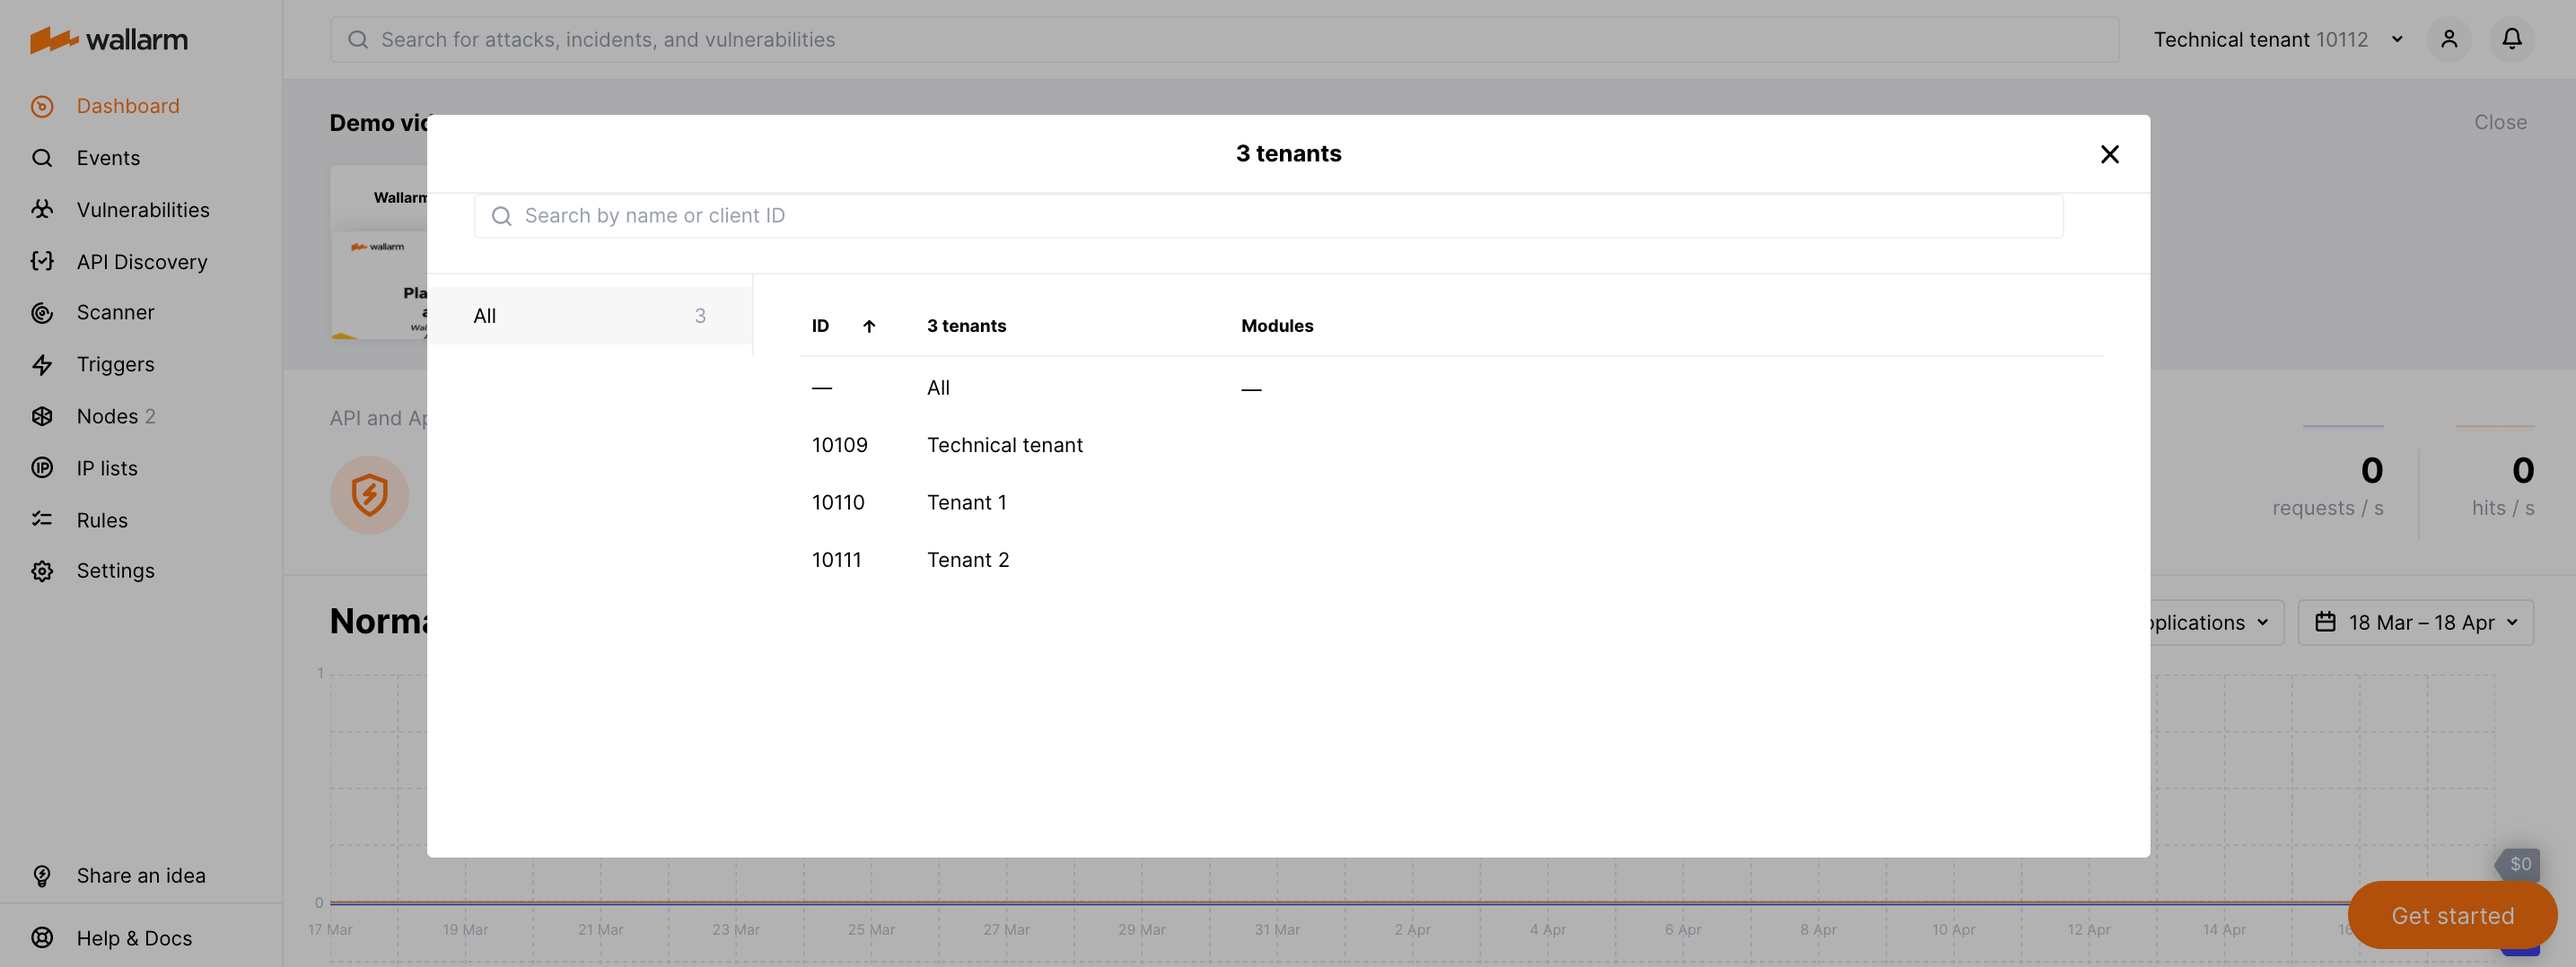
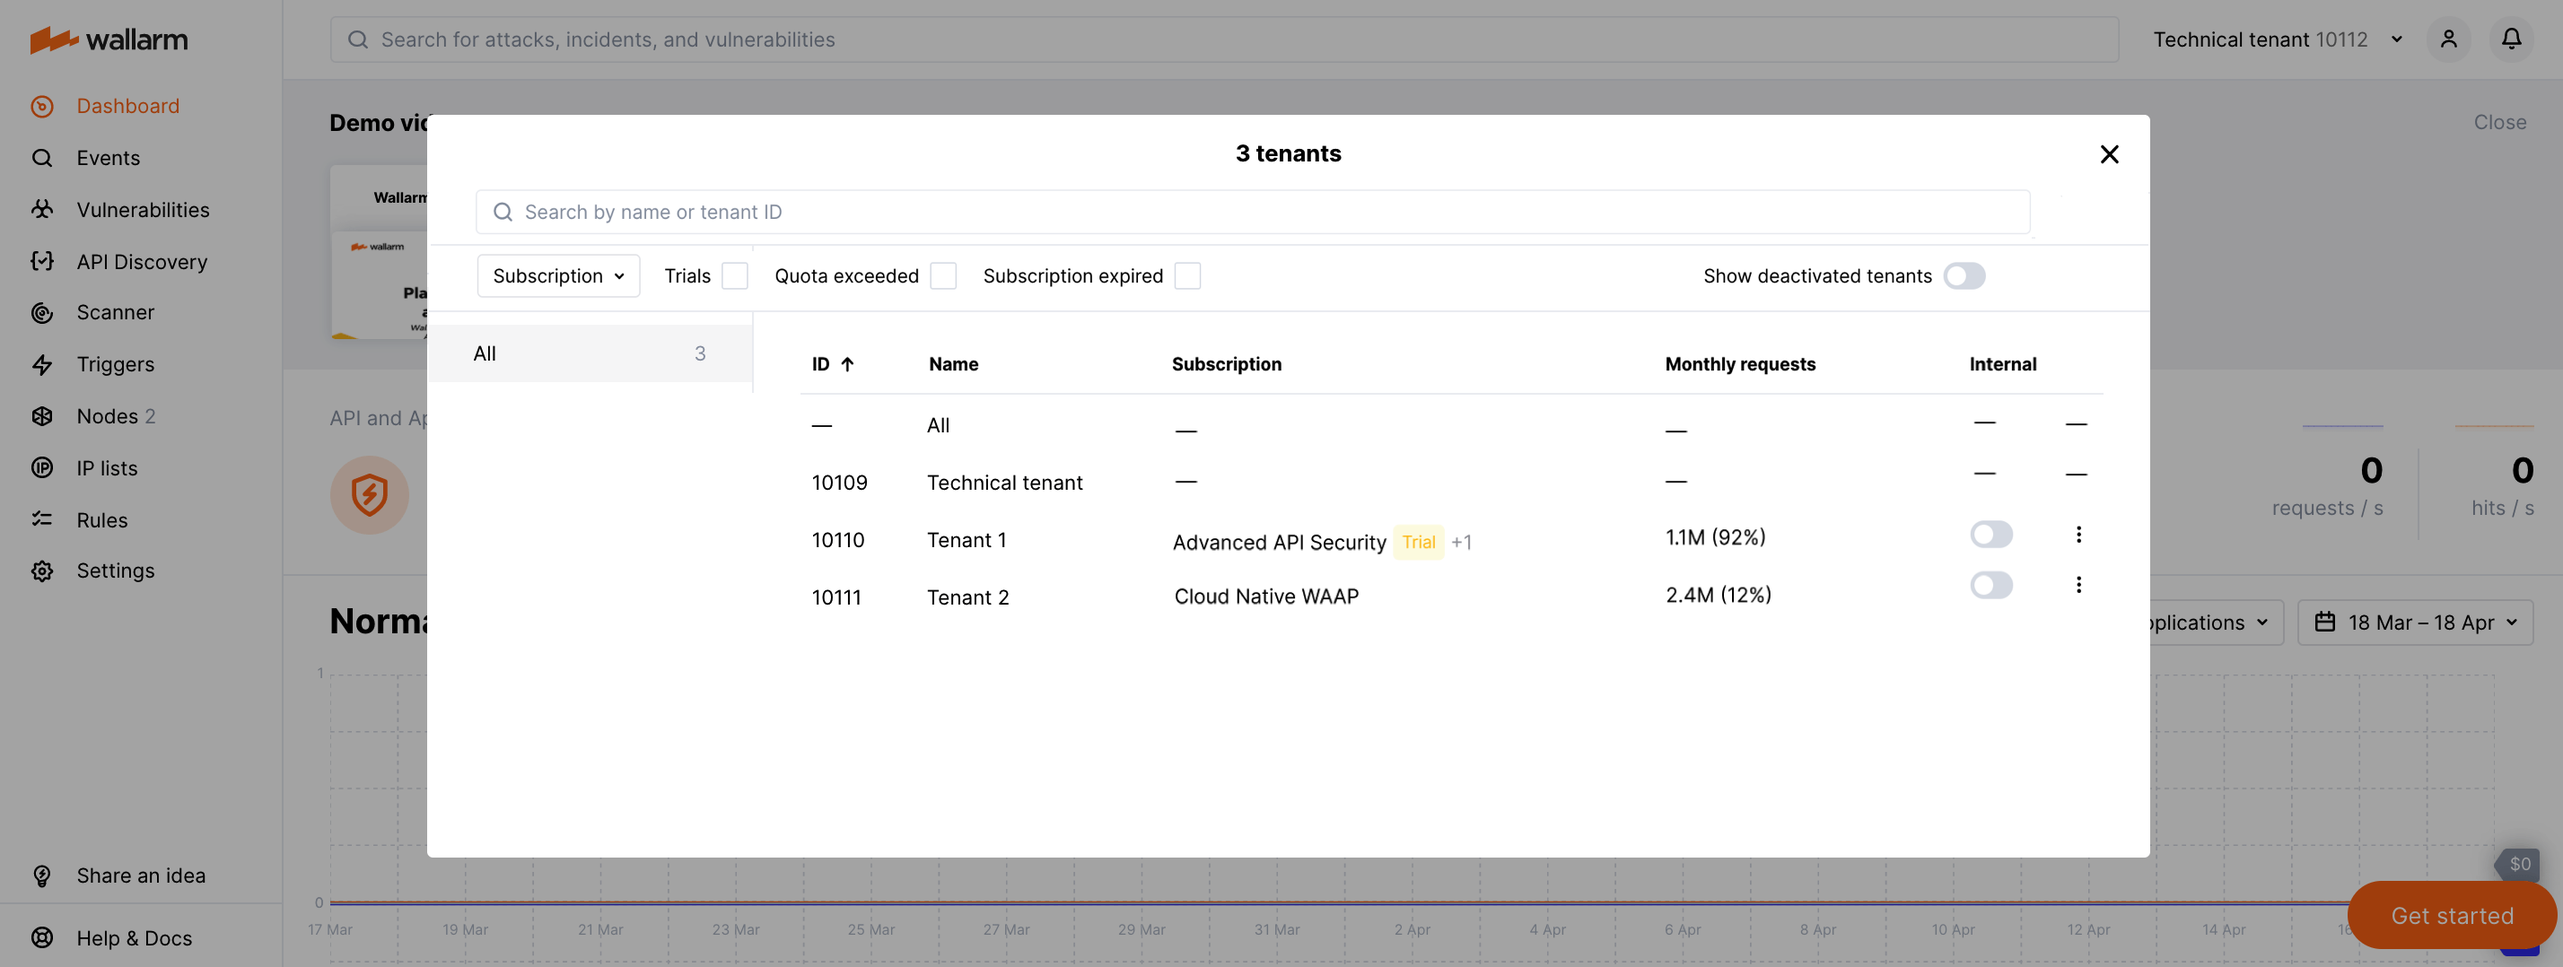
DOCS-1975 Subscriptions in tenant selector

diff --git a/docs/latest/installation/multi-tenant/configure-accounts.md b/docs/latest/installation/multi-tenant/configure-accounts.md
@@ -24,7 +24,10 @@ Tenant accounts are created according to the following structure:
     * Provide tenants with access to the data on detected attacks and to the traffic filtration settings.
     * Provide users with access to certain tenant account's data.
 
-[Global users](../../user-guides/settings/users.md#user-roles) can switch between accounts in Wallarm Console:
+[Global users](../../user-guides/settings/users.md#user-roles) can: 
+
+* Switch between accounts in Wallarm Console.
+* Monitor tenants' [subscriptions and quotas](../../about-wallarm/subscription-plans.md).
 
 ![!Tenant selector in Wallarm Console](../../images/partner-waf-node/clients-selector-in-console.png)
 
